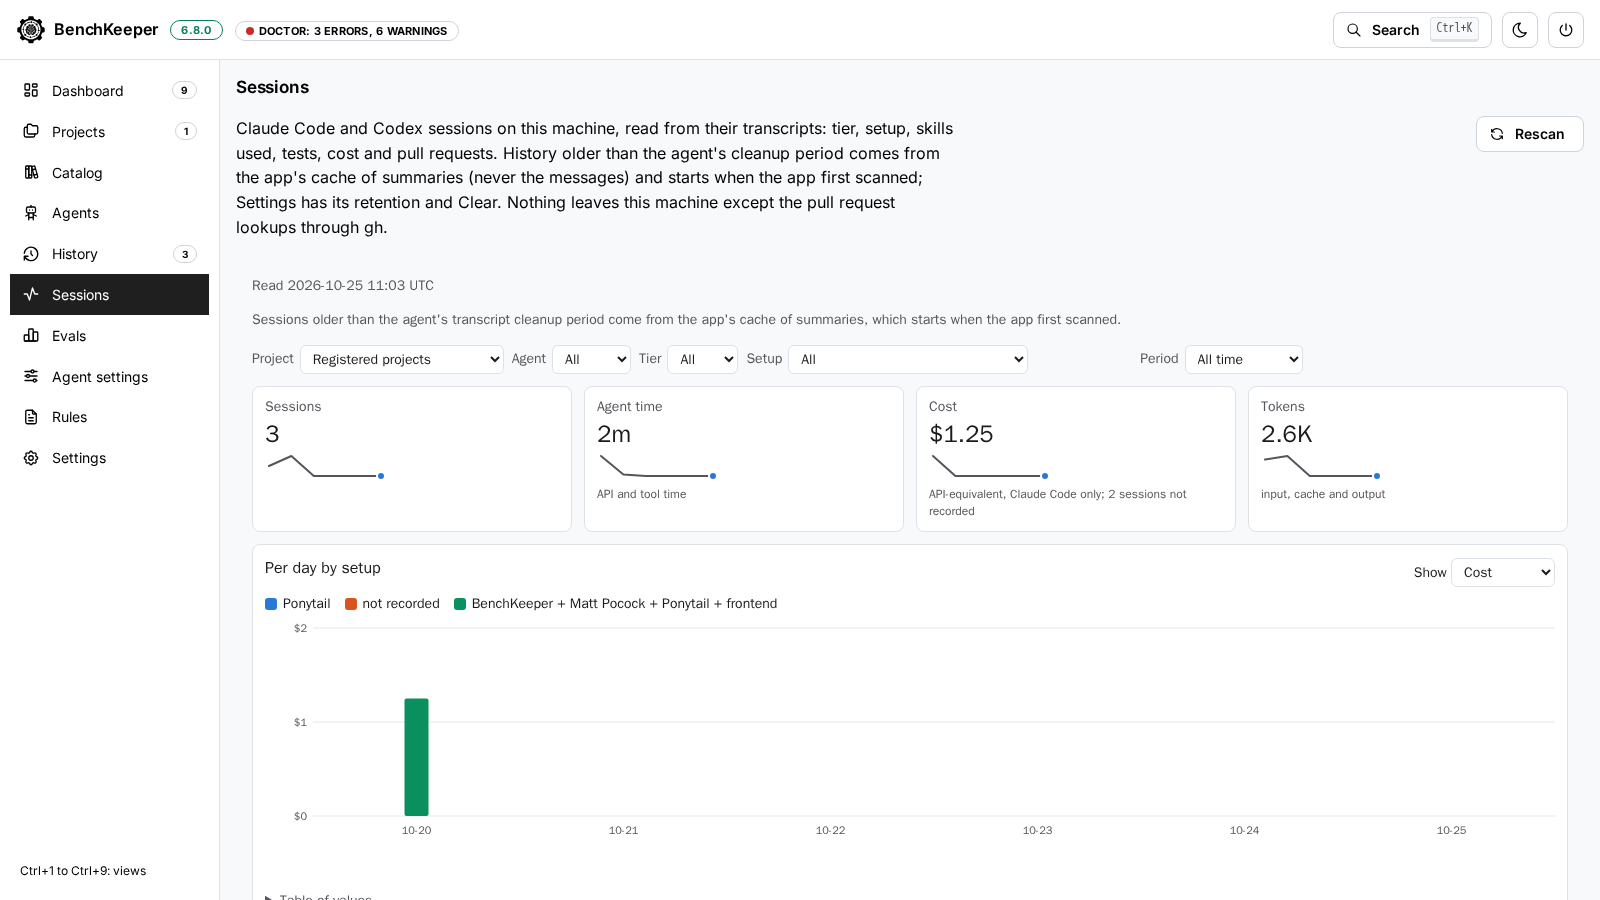
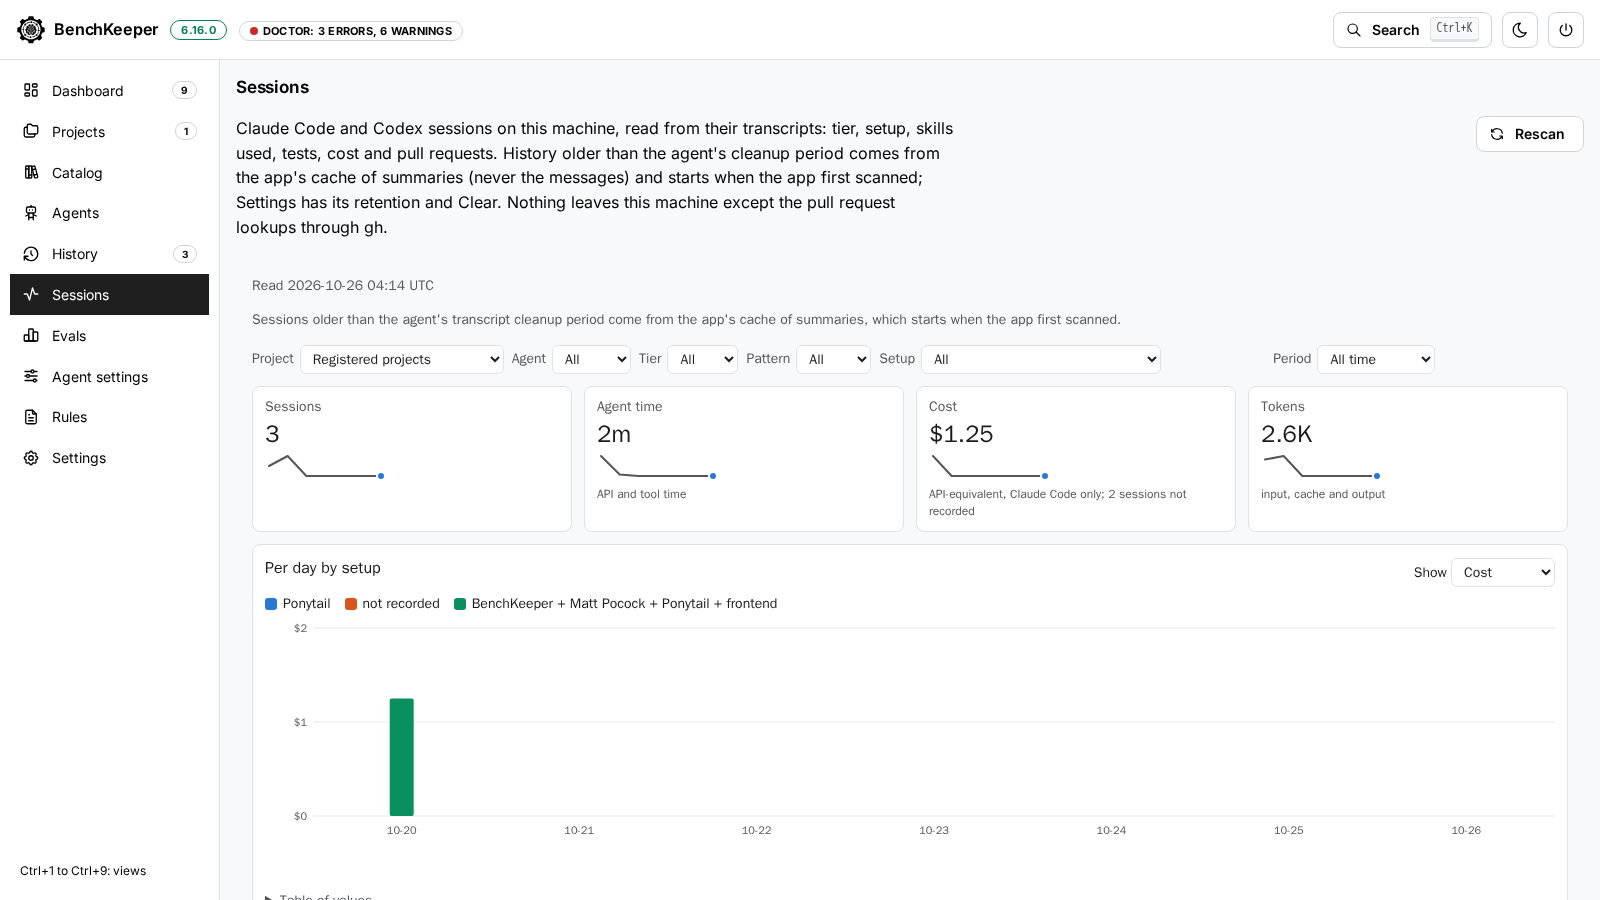
feat(app): pattern per session on the sessions board (#176)
Each session gets a pattern: loop (/goal, /loop or a scheduled wakeup),
group (subagents ran, their count is kept), Orca worker (the dispatch text
in the first typed prompt, or an `Orca run: <id>` line, whose id is kept) or
single. When several apply the first of Orca worker, loop, group wins.

The board adds a By pattern table, a Pattern filter and a Pattern column.
The parse of a transcript is part of its cache key, so changed files are
read again while the summary of a deleted transcript stays and reads not
recorded. Codex rollouts give group only.

Refs #176

Assisted-by: generative AI

diff --git a/web/src/components/AppPage.tsx b/web/src/components/AppPage.tsx
@@ -39,10 +39,10 @@ export const VIEWS: { id: string; title: string; shot: string; alt: string; text
   },
   {
     id: 'sessions', title: 'Sessions board', shot: 'sessions',
-    alt: 'The Sessions view with the board in a frame: filters for project, agent, tier, setup and period, tiles for sessions, agent time, cost and tokens, and a chart of cost per day by setup.',
+    alt: 'The Sessions view with the board in a frame: filters for project, agent, tier, pattern, setup and period, tiles for sessions, agent time, cost and tokens, and a chart of cost per day by setup.',
     text: [
-      'The board reads the Claude Code and Codex transcripts on the machine: per session the tier, the setup installed at the time, skills used, last test run, cost, time and pull request state.',
-      'Filters narrow it by project, agent, tier, setup and period. Each chart has its table beside it.',
+      'The board reads the Claude Code and Codex transcripts on the machine: per session the tier, the pattern (single, loop, group or Orca worker), the setup installed at the time, skills used, last test run, cost, time and pull request state.',
+      'Filters narrow it by project, agent, tier, pattern, setup and period. Each chart has its table beside it.',
     ],
   },
   {
@@ -70,7 +70,7 @@ export default function AppPage({ base, shots }: { base: string; shots: Record<s
         <Stack gap="xs" maw={720}>
           <Title order={1} fz={{ base: 34, md: 44 }}>The app</Title>
           <Text size="lg">
-            <code>npx benchkeeper@6.15.0</code> opens the app in your browser: set up the machine and each repository, see what drifted, undo a run.
+            <code>npx benchkeeper@6.16.0</code> opens the app in your browser: set up the machine and each repository, see what drifted, undo a run.
             The same steps run on the command line, see the CLI tab of the <Anchor href={`${base}/#start`}>quick start</Anchor>.
           </Text>
           <Text c="dimmed">All screenshots show example data: a demo home folder with the projects shop and blog. They come from no real machine.</Text>
